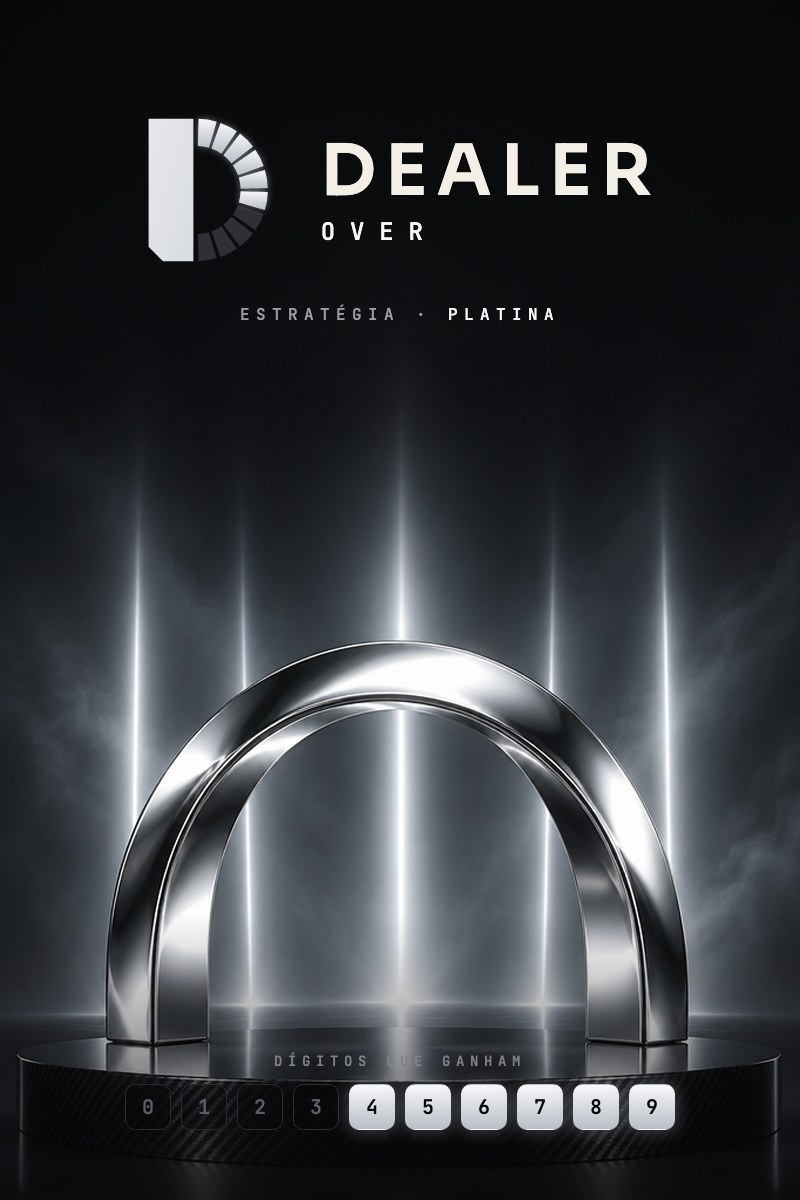
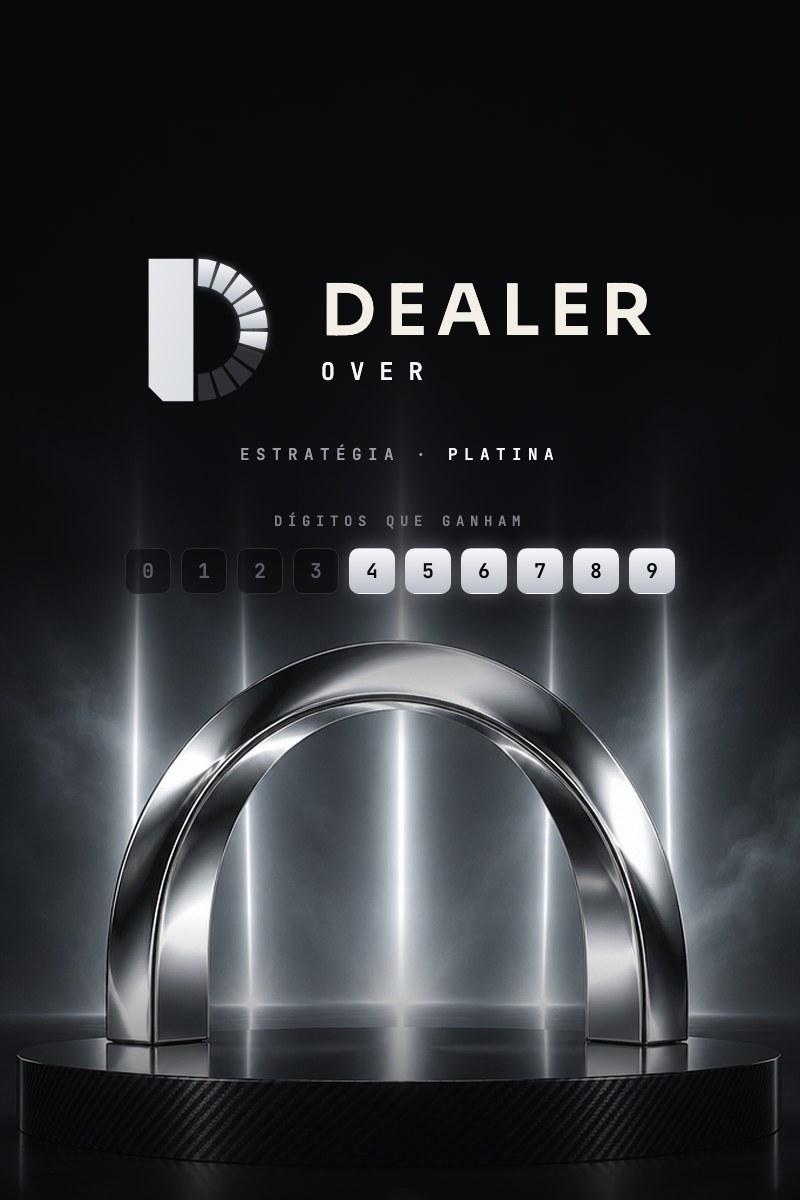
Legacy Pro: abertura e aulas sem a GlobalFly
Avião da decolagem vira a lâmina de ouro da marca e o carregando vira o
mostrador Dealer acendendo os dígitos ('Preparando sua mesa'). 18 capas de
aula próprias (natureza-morta da casa), sem as capas do Victor e do Naor fora
da GF; títulos das aulas das estratégias com os nomes Dealer; banner da sala ao
vivo com a foto de platina; capas das I.A. com logotipo e régua na faixa que os
cartões mostram. GlobalFly sem mudança.

diff --git a/src/casca/globalfly/core/teeds/modulosAulas.ts b/src/casca/globalfly/core/teeds/modulosAulas.ts
@@ -1,4 +1,4 @@
-import { MARCA } from '../../marca'
+import { MARCA, nomeCurtoDaIA } from '../../marca'
 import type { Aula, Modulo } from './aulas'
 
 /* Pedido de 16/10/2026: a vitrine da GlobalFly já aparece, com as capas.
@@ -51,11 +51,11 @@ export const MODULOS: Modulo[] = [
     cor: '#9CB1C7',
     aulas: [
       aula('o-que-sao-as-ias', 'O que são essas I.A. de operações e como funcionam?', 'O que cada estratégia automática faz por você, como decide a entrada e o que continua nas suas mãos.'),
-      aula('robo-raptor', 'Como funciona a estratégia RAPTOR?', 'Os dígitos em que ela entra, como recupera uma perda e como configurar meta e limite antes de ligar.'),
-      aula('robo-gulf', 'Como funciona a estratégia GULF?', 'A leitura dos dígitos altos, quando ela entra e o que acompanhar durante a sessão.'),
-      aula('robo-falcon', 'Como funciona a estratégia FALCON?', 'Os dígitos de 0 a 5, a entrada direta, a recuperação e como configurar antes de ligar.'),
-      aula('robo-legacy', 'Como funciona a estratégia LEGACY?', 'Os dígitos de 4 a 9, a entrada direta, a recuperação e como configurar antes de ligar.'),
-      aula('robo-phenom', 'Como funciona a estratégia PHENOM?', 'A estratégia dos dígitos baixos, quando ela entra e o que acompanhar durante a sessão.'),
+      aula('robo-raptor', `Como funciona a estratégia ${nomeCurtoDaIA('goreme').toUpperCase()}?`, 'Os dígitos em que ela entra, como recupera uma perda e como configurar meta e limite antes de ligar.'),
+      aula('robo-gulf', `Como funciona a estratégia ${nomeCurtoDaIA('superior5').toUpperCase()}?`, 'A leitura dos dígitos altos, quando ela entra e o que acompanhar durante a sessão.'),
+      aula('robo-falcon', `Como funciona a estratégia ${nomeCurtoDaIA('falcon').toUpperCase()}?`, 'Os dígitos de 0 a 5, a entrada direta, a recuperação e como configurar antes de ligar.'),
+      aula('robo-legacy', `Como funciona a estratégia ${nomeCurtoDaIA('legacy').toUpperCase()}?`, 'Os dígitos de 4 a 9, a entrada direta, a recuperação e como configurar antes de ligar.'),
+      aula('robo-phenom', `Como funciona a estratégia ${nomeCurtoDaIA('ag2').toUpperCase()}?`, 'A estratégia dos dígitos baixos, quando ela entra e o que acompanhar durante a sessão.'),
       aula('operando-na-pratica', 'Operando na prática', 'Uma sessão do começo ao fim: escolher a estratégia, definir valores, acompanhar e encerrar.'),
       aula('dicas', 'Dicas e orientações', 'Os cuidados que fazem diferença no dia a dia e os erros mais comuns de quem está começando.'),
     ],

diff --git a/src/components/entrada/SecoesDoCadastro.tsx b/src/components/entrada/SecoesDoCadastro.tsx
@@ -54,7 +54,7 @@ export function MiniCartao({ id, grande }: { id: IdDoPlano; grande?: boolean }) 
 /* ------------------------------------------------------------------ muito além das I.A. */
 const AULAS_DA_VITRINE: Array<{ modulo: string; aulas: Array<[string, string]> }> = [
   { modulo: 'Comece aqui', aulas: [['introducao', `Introdução à ${GF_NOME}`], ['visao-geral', 'Conhecendo a plataforma'], ['conta-deriv', 'Abertura de conta'], ['primeiro-deposito', 'Como depositar?'], ['saldo-demo-real', 'Conta demo e conta real'], ['deriv-confiavel', 'A Deriv é confiável?']] },
-  { modulo: 'Estratégias de I.A. na prática', aulas: [['o-que-sao-as-ias', 'O que são as I.A. de operações'], ['robo-raptor', 'A estratégia Raptor'], ['robo-gulf', 'A estratégia Gulf'], ['robo-falcon', 'A estratégia Falcon'], ['robo-legacy', 'A estratégia Legacy'], ['robo-phenom', 'A estratégia Phenom'], ['operando-na-pratica', 'Operando na prática']] },
+  { modulo: 'Estratégias de I.A. na prática', aulas: [['o-que-sao-as-ias', 'O que são as I.A. de operações'], ['robo-raptor', `A estratégia ${nomeCurtoDaIA('goreme')}`], ['robo-gulf', `A estratégia ${nomeCurtoDaIA('superior5')}`], ['robo-falcon', `A estratégia ${nomeCurtoDaIA('falcon')}`], ['robo-legacy', `A estratégia ${nomeCurtoDaIA('legacy')}`], ['robo-phenom', `A estratégia ${nomeCurtoDaIA('ag2')}`], ['operando-na-pratica', 'Operando na prática']] },
   { modulo: 'Gerenciamento e emocional', aulas: [['gerenciamento', 'O que é gerenciamento de risco'], ['gestao-na-pratica', 'Gestão na prática'], ['day-trade', 'Day trade'], ['erros-de-iniciante', 'Erros de iniciante'], ['consistencia', 'Consistência'], ['ganhar-e-perder', 'Saber ganhar e perder']] },
 ]
 const capa = (id: string) => (capaEspecial(id) ?? capaDaAula(id)).replace(/\.jpg$/, '-mobile.webp')
@@ -191,7 +191,7 @@ function CabineReal() {
           const j = SESSOES.findIndex((s) => s.f === f)
           return (
             <figure key={f} className={j === i ? 'cpl-on' : ''}>
-              <img src={`${b}aulas-globalfly/robo-${f}-mobile.webp`} alt={`GF ${f[0].toUpperCase()}${f.slice(1)}`} width="640" height="960" loading="lazy" />
+              <img src={`${b}aulas-globalfly/robo-${f}-mobile.webp`} alt={comNomesDaMarca(`GF ${f[0].toUpperCase()}${f.slice(1)}`)} width="640" height="960" loading="lazy" />
               {j >= 0 && <button type="button" onClick={() => setI(j)} aria-label={`Ver a sessão da GF ${f}`} />}
             </figure>
           )

diff --git a/src/casca/globalfly/components/capasAulas.ts b/src/casca/globalfly/components/capasAulas.ts
@@ -4,6 +4,10 @@
  * a pasta (vite.config.ts tira aulas-<outra marca> dos outros builds).
  */
 import { vitrine } from '../core/teeds/parceiro'
+import { MARCA } from '../marca'
+
+/** As capas com o Victor e o Naor são da GlobalFly; a outra marca da família (Legacy Pro) usa as suas. */
+const DA_GF = MARCA.id === 'globalfly'
 
 export const capaDaAula = (id: string): string =>
   `${import.meta.env.BASE_URL}aulas-globalfly/${id}.jpg`
@@ -31,7 +35,7 @@ const DO_NAOR = new Set([
  * Valem por cima da capa gravada na grade (as do ChatGPT foram recusadas).
  */
 export const capaEspecial = (id: string, v: string = vitrine()): string | null =>
-  !DO_NAOR.has(id) ? null
+  !DA_GF || !DO_NAOR.has(id) ? null
     : v === 'n' ? `${import.meta.env.BASE_URL}aulas-globalfly/naor/${id}.jpg`
     : `${import.meta.env.BASE_URL}aulas-globalfly/victor/${id}.jpg`
 
@@ -41,9 +45,9 @@ export const capaEspecial = (id: string, v: string = vitrine()): string | null =
  * e perde para a enviada. Ver capaResolvida em components/aulas/CapaDaAula.tsx.
  */
 export const capaDoParceiroNoCodigo = (id: string, v: string = vitrine()): string | null =>
-  v === 'n' && DO_NAOR.has(id) ? `${import.meta.env.BASE_URL}aulas-globalfly/naor/${id}.jpg` : null
+  DA_GF && v === 'n' && DO_NAOR.has(id) ? `${import.meta.env.BASE_URL}aulas-globalfly/naor/${id}.jpg` : null
 
 /** As artes dos Destaques com o Naor (09/11/2026), mesma regra da vitrine /n. */
 const DESTAQUES_DO_NAOR = new Set(['ao-vivo', 'comunidade', 'conta', 'deposito', 'apostila'])
 export const destaqueEspecial = (id: string): string | null =>
-  vitrine() === 'n' && DESTAQUES_DO_NAOR.has(id) ? `${import.meta.env.BASE_URL}aulas-globalfly/naor/destaque-${id}.webp` : null
+  DA_GF && vitrine() === 'n' && DESTAQUES_DO_NAOR.has(id) ? `${import.meta.env.BASE_URL}aulas-globalfly/naor/destaque-${id}.webp` : null

diff --git a/src/components/entrada/Carregando.tsx b/src/components/entrada/Carregando.tsx
@@ -3,6 +3,7 @@ import { MARCA } from '../../marca'
 import { sair } from '../../core/teeds/conta'
 import { Monograma } from '../marca/Monograma'
 import { Aviao } from './Aviao'
+import { HASTE, SEGMENTOS } from '../marca/LogotipoDealer'
 import './decolagem.css'
 
 /**
@@ -12,6 +13,15 @@ import './decolagem.css'
  * → início é uma cena só, sem troca de cenário no meio.
  */
 export function RotaCarregando() {
+  // Legacy Pro (linha Dealer): o mostrador do D, os dígitos acendendo do 0 ao 9
+  if (MARCA.linhaDasIas) return (
+    <span className="dg-rota dg-mostrador" aria-hidden="true">
+      <svg viewBox="2 2 92 96" width="42" height="44">
+        <path d={HASTE} className="dg-mostrador-haste" />
+        {SEGMENTOS.map((d, i) => <path key={i} d={d} className="dg-mostrador-seg" style={{ animationDelay: `${i * 0.11}s` }} />)}
+      </svg>
+    </span>
+  )
   return (
     <span className="dg-rota" aria-hidden="true">
       <i className="dg-rota-trilho" />
@@ -24,7 +34,7 @@ export function RotaCarregando() {
 /** Depois disso, o carregando oferece a saída (28/10/2026: "só fica carregando"). */
 const DEMOROU = 15_000
 
-export function Carregando({ texto = 'Preparando sua cabine' }: { texto?: string }) {
+export function Carregando({ texto = MARCA.linhaDasIas ? 'Preparando sua mesa' : 'Preparando sua cabine' }: { texto?: string }) {
   const [demorou, setDemorou] = useState(false)
   useEffect(() => { const t = window.setTimeout(() => setDemorou(true), DEMOROU); return () => window.clearTimeout(t) }, [])
   const entrarDeNovo = async () => { await sair(); location.reload() }

diff --git a/src/components/entrada/Aviao.tsx b/src/components/entrada/Aviao.tsx
@@ -1,3 +1,5 @@
+import { MARCA } from '../../marca'
+
 /**
  * O avião da GlobalFly: visto de cima, bico para a direita. Desenho
  * geométrico (fuselagem fina, asa enflechada, empenagem curta), uma cor só,
@@ -5,6 +7,13 @@
  * gira na diagonal da marca (32°) e escolhe a cor por `color`.
  */
 export function Aviao({ className = '', largura = 44 }: { className?: string; largura?: number }) {
+  // Legacy Pro (linha Dealer): no lugar do avião, a lâmina de ouro, o corte diagonal da marca
+  if (MARCA.linhaDasIas) return (
+    <svg className={className} viewBox="0 0 64 40" width={largura} height={largura * 40 / 64} aria-hidden="true" focusable="false">
+      <path fill="currentColor" d="M63 20 L38 11.5 L2 18.6 V21.4 L38 28.5 Z" />
+      <path fill="currentColor" opacity=".45" d="M38 11.5 L44 20 L38 28.5 Z" />
+    </svg>
+  )
   return (
     <svg className={className} viewBox="0 0 64 40" width={largura} height={largura * 40 / 64} aria-hidden="true" focusable="false">
       <path fill="currentColor" d="M62 20C61.6 18.4 58.5 17.6 54 17.6H38L25 3.5h-4l8 14.3-16 .4-5.5-6.2H5l2 6.6-3 .6v1.6l3 .6-2 6.6h2.5l5.5-6.2 16 .4-8 14.3h4l13-14.1h16c4.5 0 7.6-.8 8-2.4Z" />

diff --git a/src/components/aulas/Destaques.tsx b/src/components/aulas/Destaques.tsx
@@ -52,7 +52,7 @@ export function bannersDaMarca({ treino, noAr }: { treino: boolean; noAr: boolea
     titulo: noAr ? 'A sala de treino está no ar' : 'Fique atento às próximas transmissões',
     texto: noAr ? 'A equipe está operando ao vivo agora. Entre para acompanhar cada decisão em tempo real.' : 'Quando a equipe abrir uma sala ao vivo, você recebe o aviso na hora. Opere junto e tire dúvidas no chat.',
     pontos: noAr ? ['Equipe operando agora', 'Cada decisão explicada', 'Chat aberto'] : ['Aviso na hora', 'Opere junto com a equipe', 'Dúvidas no chat'],
-    acao: noAr ? 'Entrar na sala' : 'Conhecer a sala', tela: 'aovivo', imagem: `${BASE}login-globalfly/nuvens.webp`, posicao: 'center 45%',
+    acao: noAr ? 'Entrar na sala' : 'Conhecer a sala', tela: 'aovivo', imagem: MARCA.linhaDasIas ? `${BASE}robos-globalfly/legacy.webp` : `${BASE}login-globalfly/nuvens.webp`, posicao: MARCA.linhaDasIas ? 'center 40%' : 'center 45%',
   })
   if (MARCA.comunidade) l.push({
     id: 'comunidade', selo: 'Comunidade oficial', marca: 'whatsapp',

diff --git a/src/components/marca/LogotipoDealer.tsx b/src/components/marca/LogotipoDealer.tsx
@@ -20,12 +20,12 @@ const RO = R + ESP / 2, RI = R - ESP / 2
 const pt = (a: number, r: number) => [CX + r * Math.cos((a * Math.PI) / 180), CY - r * Math.sin((a * Math.PI) / 180)]
 const f = (n: number) => n.toFixed(2)
 /** Os 10 segmentos do arco, do dígito 0 (embaixo) ao 9 (em cima). */
-const SEGMENTOS = Array.from({ length: 10 }, (_, d) => {
+export const SEGMENTOS = Array.from({ length: 10 }, (_, d) => {
   const a0 = -90 + d * 18 + VAO / 2, a1 = -90 + (d + 1) * 18 - VAO / 2
   const [x0, y0] = pt(a0, RO), [x1, y1] = pt(a1, RO), [x2, y2] = pt(a1, RI), [x3, y3] = pt(a0, RI)
   return `M${f(x0)} ${f(y0)} A${RO} ${RO} 0 0 0 ${f(x1)} ${f(y1)} L${f(x2)} ${f(y2)} A${RI} ${RI} 0 0 1 ${f(x3)} ${f(y3)} Z`
 })
-const HASTE = `M6 ${f(CY - RO)} H${CX - 2} V${f(CY + RO)} H15 L6 ${f(CY + RO - 9)} Z`
+export const HASTE = `M6 ${f(CY - RO)} H${CX - 2} V${f(CY + RO)} H15 L6 ${f(CY + RO - 9)} Z`
 
 export const linhaDaMarca = () => MARCA.linhaDasIas
 /** A I.A. desta marca na linha própria, pelo id do robô ou pelo nome ("Dealer Speed"). */

diff --git a/src/components/entrada/decolagem.css b/src/components/entrada/decolagem.css
@@ -101,3 +101,12 @@
 .entrada-abrindo-demorou { display: grid; gap: 10px; width: 100%; }
 .entrada-abrindo-demorou p { margin: 0; color: var(--text); font-size: 14px; line-height: 1.5; }
 .entrada-abrindo-sair { min-height: 44px; border: 0; background: none; color: var(--muted); font: inherit; font-size: 13.5px; text-decoration: underline; text-underline-offset: 3px; cursor: pointer; }
+
+/* Legacy Pro (linha Dealer, 25/11/2026): o carregando é o mostrador do D, os dígitos
+   acendendo em ouro do 0 ao 9 e apagando, em ciclo. */
+.dg-rota.dg-mostrador { width: auto; height: auto; display: inline-grid; place-items: center; background: none; }
+.dg-mostrador svg { display: block; overflow: visible; }
+.dg-mostrador-haste { fill: #D9DCE0; stroke: none; }
+.dg-mostrador-seg { fill: #2E3035; stroke: none; animation: dg-digito 1.65s ease-in-out infinite; }
+@keyframes dg-digito { 0%, 100% { fill: #2E3035 } 18%, 46% { fill: #C9A24A } }
+@media (prefers-reduced-motion: reduce) { .dg-mostrador-seg { animation: none; fill: #C9A24A; } }

diff --git a/src/components/entrada/Decolagem.tsx b/src/components/entrada/Decolagem.tsx
@@ -119,7 +119,7 @@ function EmVoo({ voo }: { voo: Voo }) {
         <Monograma tamanho={84} className="dg-monograma" />
         <b>{MARCA.linhaDasIas ? (primeiroNome ? `Boas-vindas, ${primeiroNome}` : 'Boas-vindas') : primeiroNome ? `Boas-vindas a bordo, ${primeiroNome}` : 'Boas-vindas a bordo'}</b>
         <RotaCarregando />
-        <span className="dg-legenda">Preparando sua cabine</span>
+        <span className="dg-legenda">{MARCA.linhaDasIas ? 'Preparando sua mesa' : 'Preparando sua cabine'}</span>
       </div>
     </div>
   )
